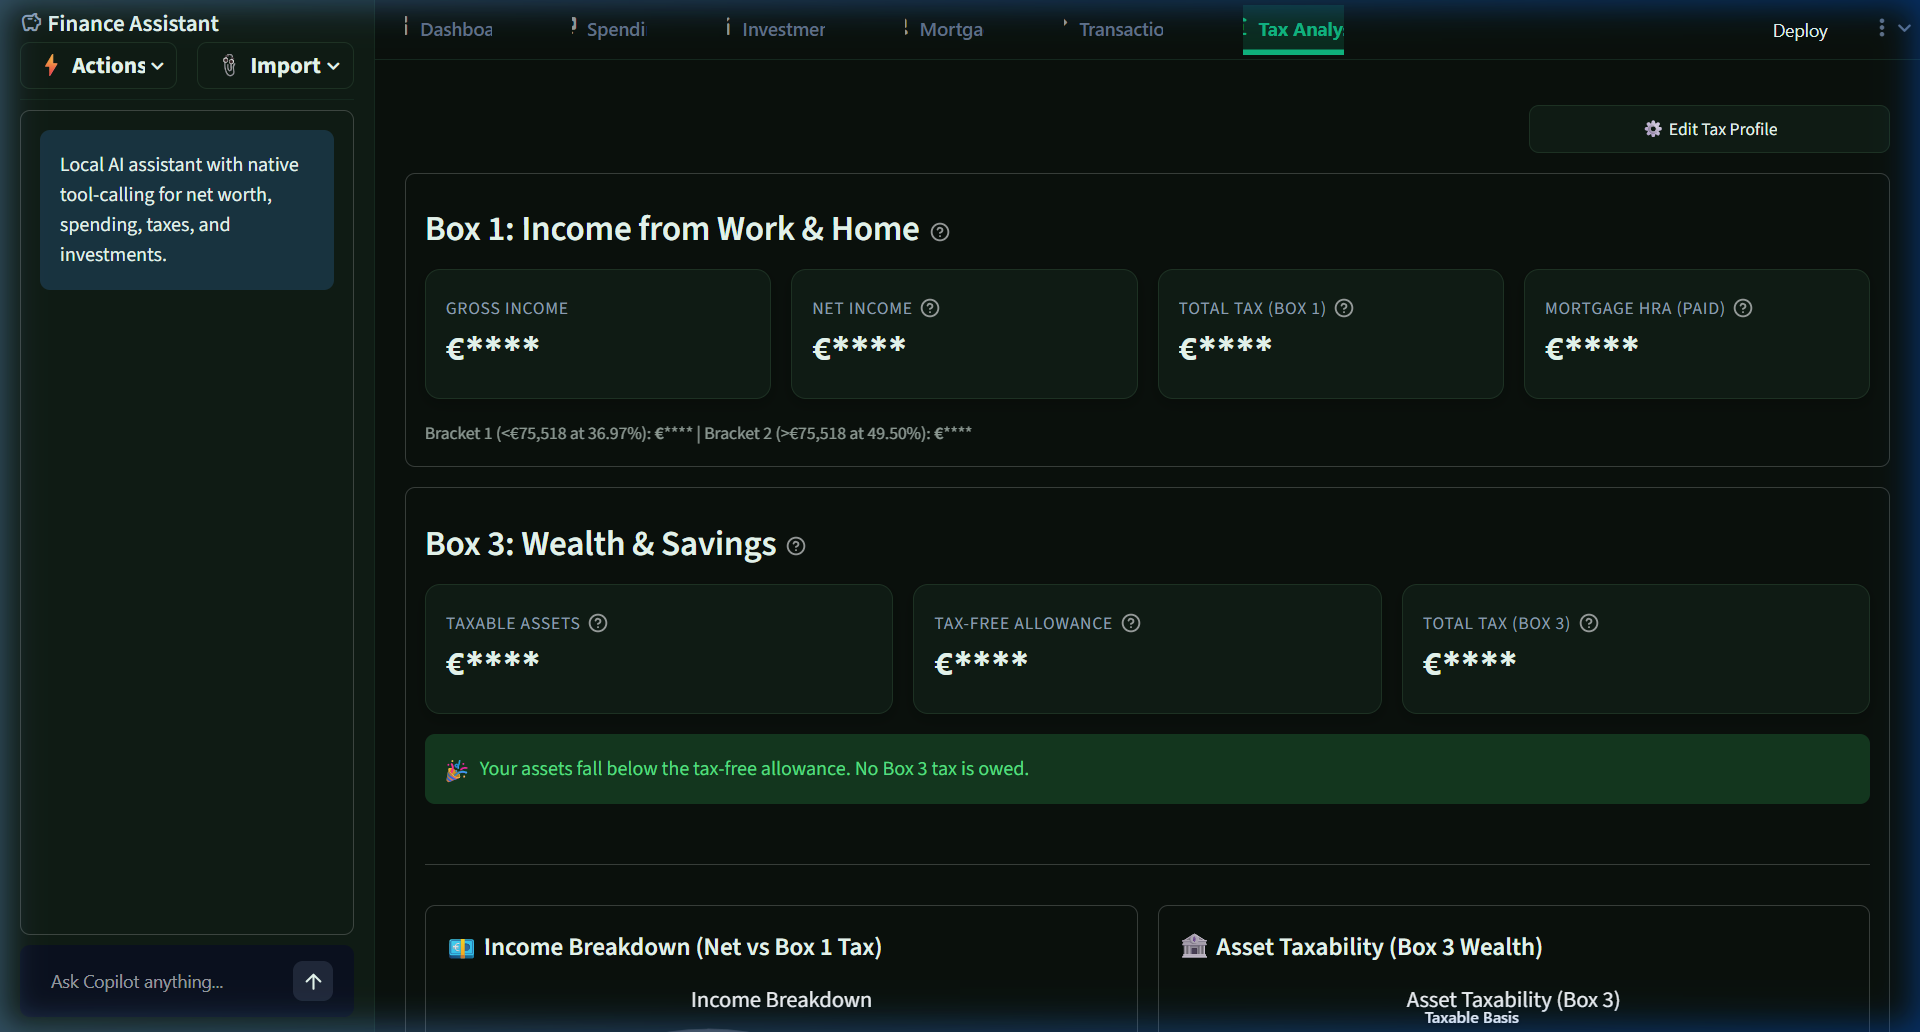
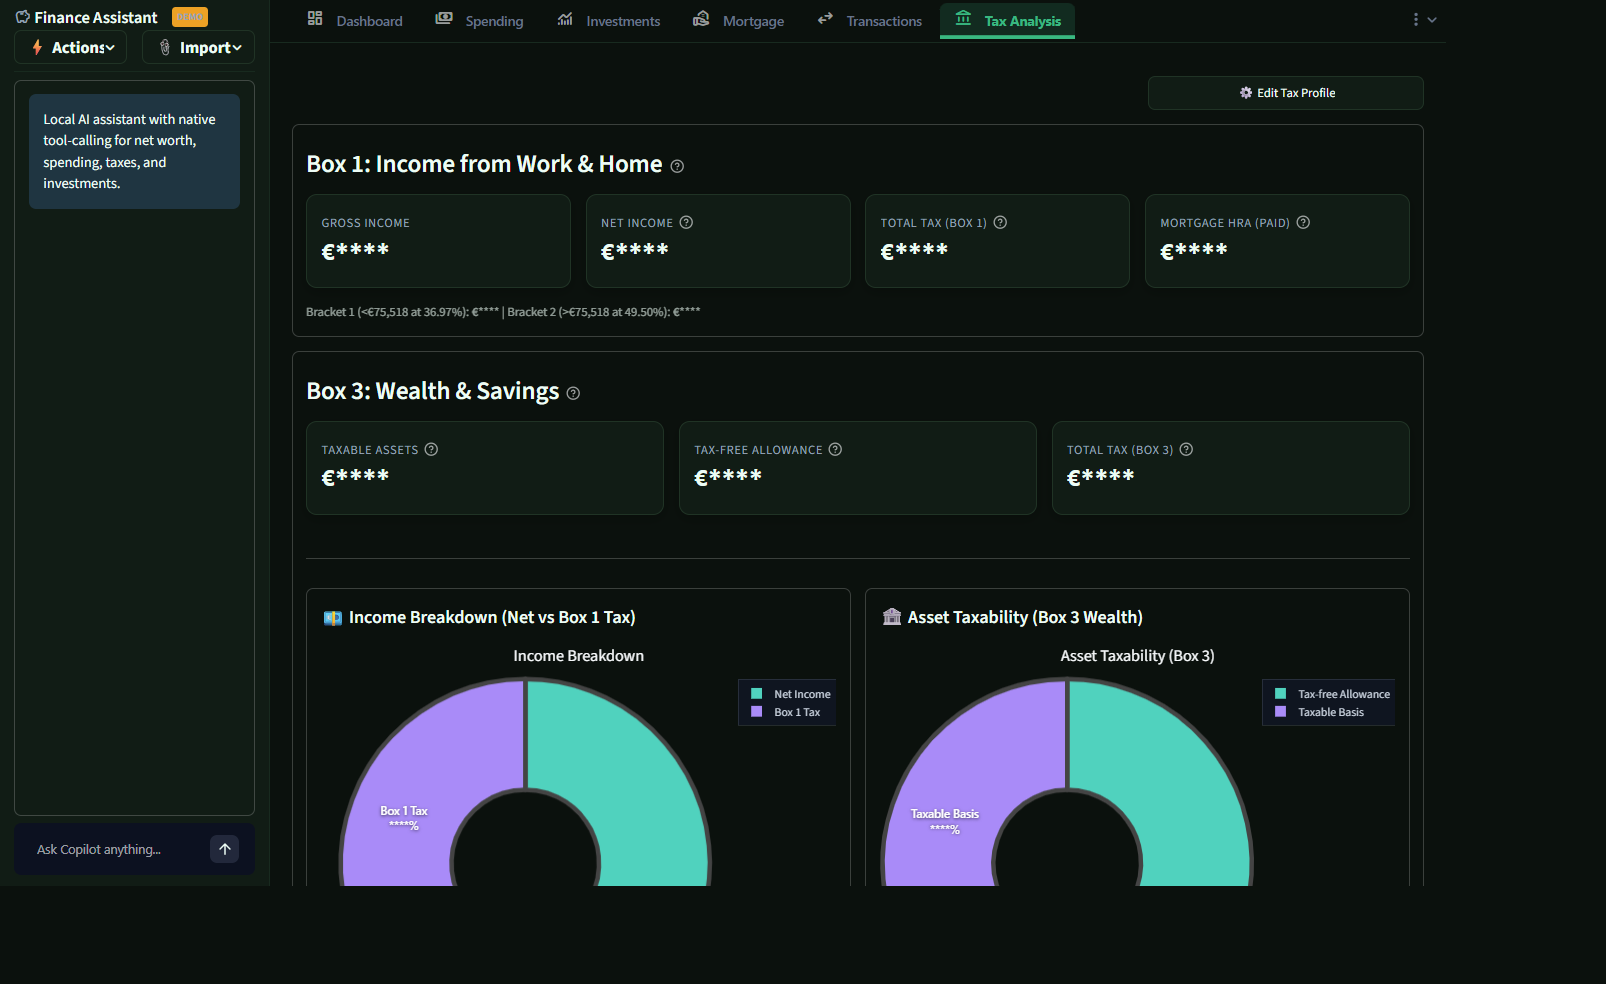
docs: add UI/UX & functioning audit and refresh app screenshots
Add docs/reviews/2026-10-12-ui-ux-audit.md capturing a hands-on polish pass (privacy-shield scope/leaks, deprecated Streamlit APIs, vault/RAG issues, copilot notes, prioritised fixes). Replace all seven README screenshots with fully-rendered captures (previous ones had truncated top nav and unrendered loading skeletons). Link the audit from the README.

diff --git a/docs/reviews/2026-10-12-ui-ux-audit.md b/docs/reviews/2026-10-12-ui-ux-audit.md
@@ -1,0 +1,128 @@
+# UI / UX / Functioning Audit — 2026-10-12
+
+Hands-on pass over the running app (demo dataset, `PFA_DEMO=1`, **Hide values ON** as requested) to
+pressure-test it for sale-readiness. Copilot exercised with real prompts; every page visited.
+
+**Method**
+- App: `streamlit run app.py` on demo dataset (`data/demo.db`, Amsterdam profile, 535 tx, 15 holdings, 8 statutes).
+- Viewport ~1600×900, dark theme, Privacy Shield ON for the whole pass.
+- Copilot: live `qwen2.5:7b-instruct` via Ollama on CPU.
+
+**Severity:** `P1` broken/blocking · `P2` important · `P3` polish · `INFO` note
+
+---
+
+## 1. Privacy Shield (the biggest issue) — P1
+
+### 1a. Over-masking destroys readability
+With Hide values ON the app is close to unusable because it masks **non-monetary** content, not just amounts:
+
+| Surface | Masked (wrongly) | Still visible |
+|---|---|---|
+| Investments → Portfolio Holdings | Ticker, Asset Name, Type, Units, Avg Open, Cost Basis, Current Price, Value, P&L, P&L(%) | Asset Class, Status |
+| Investments → Live Market Quotes | Ticker, Asset Name, Market Price | — |
+| Transactions | Merchant / Payee | Account, Category, Date |
+| Spending → Subscription Leak Detector | Merchant | Cadence |
+| Spending → Top Merchants | Merchant | — |
+| Everywhere | **all percentages**: donut slice %, MoM %, Fixed/Disc %, P&L %, mortgage rate %, repayment-progress %, "**** assets" position count | — |
+
+Result: charts lose their y-axis ticks (blank) and donuts/percentages read `****%`, so Privacy mode
+actively defeats analysis. Merchant names and tickers are not secrets — they are what makes the data legible.
+
+**Recommend:** mask only currency-formatted monetary values at the presentation boundary. Keep identifiers
+(ticker, asset name, merchant, category, dates), counts, and percentages visible. If some fields must hide,
+expose per-column control rather than a global scalar wipe.
+
+### 1b. Masking leaks (inconsistent — some amounts left in the clear)
+Privacy mode is not applied uniformly; derived/annotated values bypass it:
+- Mortgage → **Extra Repayment Simulator**: `TOTAL INTEREST SAVED €2,428.61` shown in full while every other amount is masked.
+- Tax breakdown annotation: `Tax refund benefit: +€3,634.21`; notes `0.1% tax credit on €0.00 green assets`, `Groenfondsen cap: €71,251`.
+- Tax Capital Allocation chart title: `€10,000 Lump Sum Allocation over 10 Years`.
+- **Copilot chat**: answers print raw amounts (e.g. net worth `€214,821.49`, spend `€743.60`) while every table is masked.
+
+Net effect: screening-sharing with Hide values ON still leaks real figures through chat and annotations.
+
+**Recommend:** route all displayed money (including simulator results, RAG/LLM text, chart titles/axes)
+through the single mask formatter, or explicitly document that chat output is excluded.
+
+---
+
+## 2. Functional issues
+
+| # | Sev | Issue | Evidence | Suggested fix |
+|---|---|---|---|---|
+| 2.1 | P2 | Legal vault showed **"0 statutes indexed across 6 domains"** on first visit after restart, then **8** on revisit. First-load ingest/render race. | `ui/pages/tax.py:352-353`; `data/demo.db` has 8 docs / 31 chunks | Ingest during `database.migrate()`/seed, or render a loading state until ready |
+| 2.2 | P2 | RAG embedding path degraded. Ollama probe uses `all-minilm` (not pulled → `/api/embed 404`), and batch sync embeds with the **chat model** (`qwen2.5`) not an embed model, so it silently falls back to a 128-token bag-of-words pseudo-vector → weak semantic search. | `services/legal_vault_service.py:16,30,200-245`; `services/rag_service.py:238-245` | Use an installed embed model, or go straight to FastEmbed; don't embed with a chat model |
+| 2.3 | P2 | **Auto-sync runs per Streamlit session.** With multiple tabs open, identical bank/eToro HTTP calls repeat (observed 4× identical requests in the same second in `data/logs/app.log`). Rate-limit/quota risk. | `app.py:54-77` (`_trigger_auto_sync`) | Single-flight global lock / dedupe by last-sync timestamp in DB, not per session |
+| 2.4 | P2 | Stale PSD2 account refs: repeated `GET /accounts/{id}` → **404**, then `/balances` → 200. | `data/logs/app.log` | Re-resolve account IDs on 404; stop retrying known-stale IDs |
+| 2.5 | P3 | Deep link `/dashboard` shows **"Page not found"** toast (page `url_path="dashboard"` but `default=True` serves it at `/`). | `app.py:100-102` | Rename url_path to `/` or add a redirect |
+| 2.6 | P3 | Unhandled asyncio `ConnectionResetError [WinError 10054]` tracebacks in logs (13×) from httpx transport teardown. | `data/logs/app.log` | Suppress/quiet transport-reset noise; close clients cleanly |
+| 2.7 | P3 | **Crypto ticker says wrong things**: `BTC-USD 1.68T −5,191,230,947.00 (−0.31%)`, `ETH-USD 312.29B +2,766,358,214.00` — market-cap magnitude in the price/change slots. | Dashboard ticker | Fix field mapping for crypto quotes (price vs change vs cap) |
+| 2.8 | P3 | Spending period selector shows raw keys: `2026-09 (24 Sep — 23 Oct)` and header `Expense Breakdown (2026-09)`. | Spending page | Use `September 2026`; align range with the selected month |
+| 2.9 | P3 | Copilot misreads "last month" as the **current** (partial) month (answered October 2026, not September). | Copilot test | Normalize relative dates in tool layer |
+| 2.10 | INFO | Optional **Brave Search API key** implies optional cloud egress — contradicts the "zero cloud / no telemetry" positioning. | Settings → AI Model | Clarify it is opt-in and off by default |
+| 2.11 | INFO | Transactions default shows `Showing 77 transactions` of 535 — scope is unlabeled. | Transactions | Label the filter (e.g. "last 30 days / needs review") |
+
+---
+
+## 3. UI / visual
+
+| # | Sev | Issue |
+|---|---|---|
+| 3.1 | P2 | Tax → **Net Wealth Trajectory chart has a duplicated title**: Streamlit section header *and* the Plotly title overlap at the top of the plot. Remove one. |
+| 3.2 | P2 | Privacy mode blanks **all chart y-axis ticks** (Runway projection, Monthly expense trend, Amortization, Net wealth trajectory) → charts convey nothing. (see 1a) |
+| 3.3 | P3 | Donut labels crowded/rotated/overlapping (Spending by Category; Box 1 / Box 3 half-donuts). Prefer legend + no in-slice labels. |
+| 3.4 | P3 | TradingView attribution (`TV`) overlaps the last ticker; leftmost ticker clipped at the left edge. |
+| 3.5 | P3 | Demo dashboard charts render **blank for several seconds** (Plotly mounts late) with no skeleton/spinner — first impression looks broken. Add a loading placeholder. |
+| 3.6 | P3 | Settings → Open Banking setup guide is **expanded by default** — a wall of text as the first thing you see. Collapse it. |
+| 3.7 | P3 | Most pages leave a large black gap below content (dashboard ~157px overflow; others more). Tune vertical rhythm/spacing. |
+| 3.8 | INFO | Sidebar quick-action DOM shows stray icon ligature text (`savings`, `expand_more`) — visually fine, but confirm accessible names. |
+
+---
+
+## 4. Deprecated APIs (will break) — P1 for maintenance
+
+Streamlit emits removal warnings on **every** render, and the removal dates are already past:
+
+- `use_container_width` — *"will be removed after 2025-12-31"* — used across virtually every table/chart/metric.
+- `st.components.v1.html` — *"will be removed after 2026-06-01"* — used in the charts/embeds.
+
+**Recommend:** migrate to `width="stretch" | "content"` and `st.iframe`. Do this before the next Streamlit
+upgrade; a future bump will break most pages at once.
+
+---
+
+## 5. Copilot assessment
+
+**Works well**
+- "What is my net worth?" → correct, itemised (`€214,821.49` = cash + investments + home equity).
+- "How much did I spend last month?" → category breakdown **plus an auto-generated chart** (`Spending by Category (for 2026-10)`).
+- "Explain the Dutch 30% expat ruling…" → structured, cited (Art. 31a / 10ea / 2.6).
+
+**Gaps**
+- **Unmasked output** (see 1b) — chat bypasses Privacy Shield.
+- **Latency ~30–60 s/turn** on CPU `qwen2.5:7b` (two `/api/chat` calls per turn: route + answer). Add a model/size guidance note or GPU path for demos.
+- No surfaced timeout/error state if the model stalls (UI just keeps "thinking…").
+- Relative-date understanding (#2.9).
+
+---
+
+## 6. Screenshots / README
+
+- Current `docs/assets/screenshots/dashboard.png` was captured too early: top nav labels truncated
+  (`Dashboa`, `Spendi`, `Investmen`…) and the metric row shows unrendered loading skeletons. Capture after charts settle.
+- README stats drift: badge says **Tests: 215 Passed** while the pasted log shows **200 passed**; verify tool count ("25 native tools") and the Privacy-Shield "masks all numbers" claim (see 1a/1b).
+- Screenshots intentionally keep Hide values ON per request — but see §1: masked screenshots will show
+  `****` tickers, blank axes and `****%`, which undercuts the "showcase" intent. Consider fixing masking
+  (mask amounts only) before re-shooting the README.
+
+---
+
+## 7. Suggested priority order
+
+1. **Fix Privacy Shield scope + leaks** (§1) — biggest UX/trust win, and unblocks good README shots.
+2. **Migrate deprecated Streamlit APIs** (§4) — prevents a hard break.
+3. Vault first-load race + RAG embedding model (§2.1, §2.2).
+4. Per-session auto-sync duplication + stale PSD2 refs (§2.3, §2.4).
+5. Duplicate chart title, chart-y-axis/percent masking, ticker crypto mapping (§3.1, §3.2, §2.7).
+6. Polish: date labels, donut legends, loading skeletons, spacing (§2.8, §3.3–3.7).

diff --git a/README.md b/README.md
@@ -316,3 +316,4 @@ tests\test_ui_theme.py ..................                                [100%]
 - **[System Architecture](docs/ARCHITECTURE.md)**: Comprehensive guide to the threading model, security sandbox, quant calculation engines, and database schema.
 - **[Feature Scope](docs/scope/scope.md)**: Product roadmap, delivery slices, and implementation status.
 - **[Technical Specifications](docs/specs/)**: Detailed architectural specs and acceptance criteria for all 13 vertical feature slices.
+- **[UI/UX & Functioning Audit](docs/reviews/2026-10-12-ui-ux-audit.md)**: Hands-on polish pass — privacy-shield scope, functional bugs, deprecated APIs, and a prioritised fix list ahead of release.
